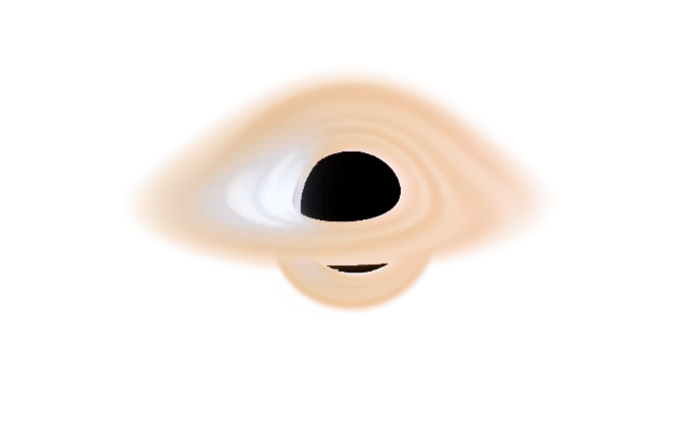
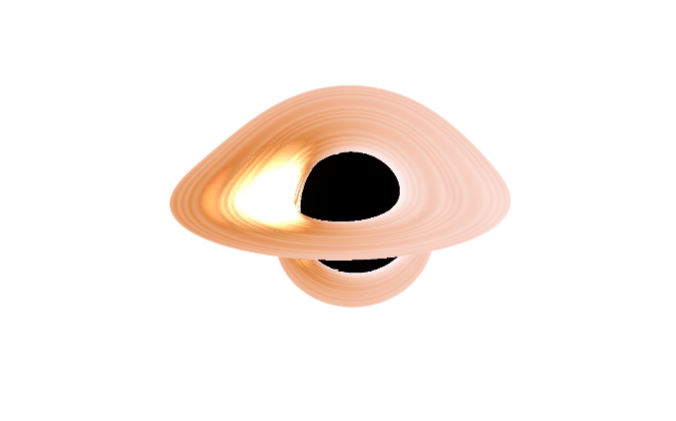
Sharpen the black hole disc

diff --git a/src/assets/js/sky.js b/src/assets/js/sky.js
@@ -161,7 +161,7 @@ float F(float r){return pow(r,-3.)*max(1.-sqrt(uRin/r),0.);}
 // Gas texture: a few broad spiral waves cos(m phi + k ln r), carried round at the Kerr rate and
 // wound up by the differential rotation; each generation lives P M of time and cross-fades into
 // the next, so the pattern never winds into hairlines. It only modulates the brightness by
-// about +-30 per cent: the light itself is the thin-disc flux.
+// about +-10 per cent, with fine orbital streaks as in Isaac: the light itself is the thin-disc flux.
 float tx(float r,float lr,float phi,float dl){
  float Om=1./(pow(r,1.5)+uA),sh=1.5*pow(r,1.5)*Om*Om,acc=0.;
  for(int L=0;L<2;L++){float age=uAge[L],ph=phi-Om*age,n=0.;
@@ -169,7 +169,7 @@ float tx(float r,float lr,float phi,float dl){
    n+=T.z*clamp(1.2-k*dl*2.,0.,1.)*cos(T.x*ph+T.y*lr+T.w+uRp[L*NT+j]);}
   acc+=uW[L]*n;}
  float n=acc/sqrt(max(dot(uW,uW),1e-3))/3.;
- return 1.+.3*tanh(n);}
+ return (1.+.1*tanh(n))*(.9+.1*sin(r*7.+3.*sin(r*1.7)));}
 void main(){ivec2 q=ivec2(gl_FragCoord.xy);
  vec3 a0=floor(texelFetch(uMap,q,0).rgb*255.+.5),p0=floor(texelFetch(uMap,q+ivec2(0,uH),0).rgb*255.+.5);
  vec3 a1=floor(texelFetch(uMap,q+ivec2(0,2*uH),0).rgb*255.+.5),p1=floor(texelFetch(uMap,q+ivec2(0,3*uH),0).rgb*255.+.5);
@@ -182,8 +182,8 @@ void main(){ivec2 q=ivec2(gl_FragCoord.xy);
   float phi=(pp.r*256.+pp.g)/65536.*6.2831853+uPhc,g=.2+aa.b/255.*1.6;
   // Optically thick thin disc (Novikov-Thorne flux F, zero at the ISCO). Observed bolometric
   // intensity g^4 F; colour from a black body at T proportional to F^(1/4), shifted by g.
-  float fl=F(r)/uFmax,T=clamp(g*7600.*pow(fl,.25),1500.,12000.);
-  float edge=smoothstep(uRin,uRin+.35,r)*smoothstep(16.,10.5,r);   // disc gas ends near 16 M
+  float fl=F(r)/uFmax,T=clamp(g*5200.*pow(fl,.25),1500.,12000.);
+  float w=clamp(fwidth(r),.02,.6),edge=smoothstep(uRin,uRin+.2,r)*smoothstep(12.+w,12.-w,r);   // the disc ends sharply at 12 M
   // Exposure: a camera's log-like response, so the cool outer disc stays visible next to the
   // hot inner edge (a display choice; the ratios between points are kept in order).
   float I=pow(g*g*g*g*fl,.55)*tx(r,lr,phi,dl)*2.,al=edge;
@@ -202,8 +202,8 @@ void main(){vec2 uv=gl_FragCoord.xy/uSz;vec3 s=vec3(0);float w=0.;
     const FINAL = `#version 300 es
 precision highp float;uniform sampler2D uS,uB1,uB2;uniform vec2 uSz;out vec4 o;
 void main(){vec2 uv=gl_FragCoord.xy/uSz;uv.y=1.-uv.y;vec4 s=texture(uS,uv);
- vec3 img=(s.rgb*s.rgb*4.+(.28*texture(uB1,uv).rgb+.16*texture(uB2,uv).rgb)*4.)*.8;
- img=pow(1.-exp(-1.5*img),vec3(1./1.1));
+ vec3 img=(s.rgb*s.rgb*4.+(.06*texture(uB1,uv).rgb+.03*texture(uB2,uv).rgb)*4.)*.9;
+ img=min(img,vec3(1.));
  img*=smoothstep(0.,.03,uv.x)*smoothstep(1.,.97,uv.x)*smoothstep(0.,.05,uv.y)*smoothstep(1.,.95,uv.y);
  o=vec4(img,clamp(max(s.a,max(img.r,max(img.g,img.b))*1.15),0.,1.));}`;
 

diff --git a/README.md b/README.md
@@ -34,9 +34,9 @@ factor of a circular prograde emitter. `tools/kerr_part.py` is the same tracer f
 so that four processes can share the image. `tools/pack_bh.py` packs the geometry into `bh-map.png`.
 In the browser, `assets/js/sky.js` shades the disc from those maps every frame on the GPU: an
 optically thick thin disc with the Novikov–Thorne flux, observed bolometric intensity g⁴F,
-blackbody colours shifted by g, a slowly evolving spiral texture carried round at the Kerr rate
-Ω = 1 / (r^1.5 + a), and a camera-like exposure curve and bloom. The gas is drawn out to about
-16 M.
+blackbody colours shifted by g, fine orbital streaks and a faint spiral texture carried round at
+the Kerr rate Ω = 1 / (r^1.5 + a), a camera-like exposure curve and a light bloom. The disc has a
+sharp outer edge at 12 M.
 
 The planets and the belt orbit in the equatorial plane, the plane of the disc, so frame dragging
 does not precess their orbital planes. Disc, planets and belt share one clock (40 M of time per
